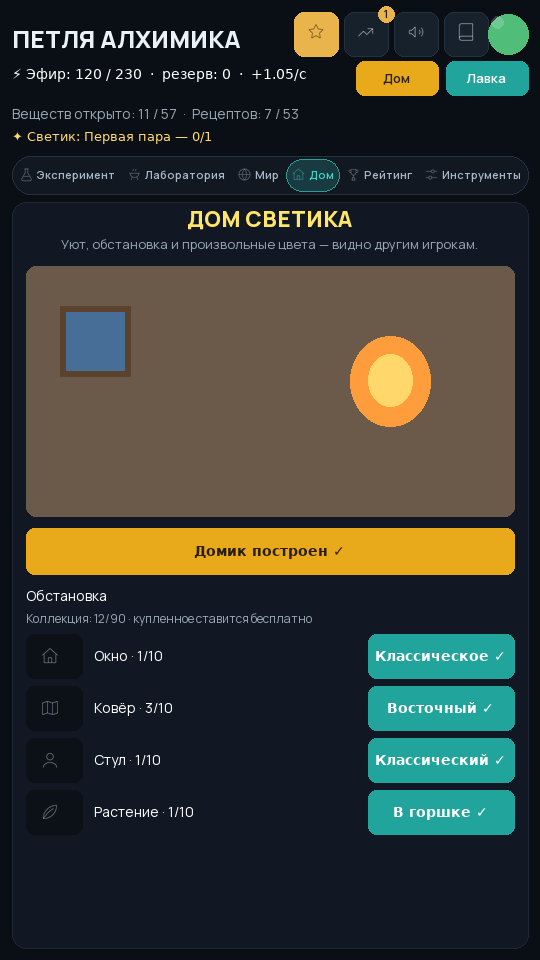
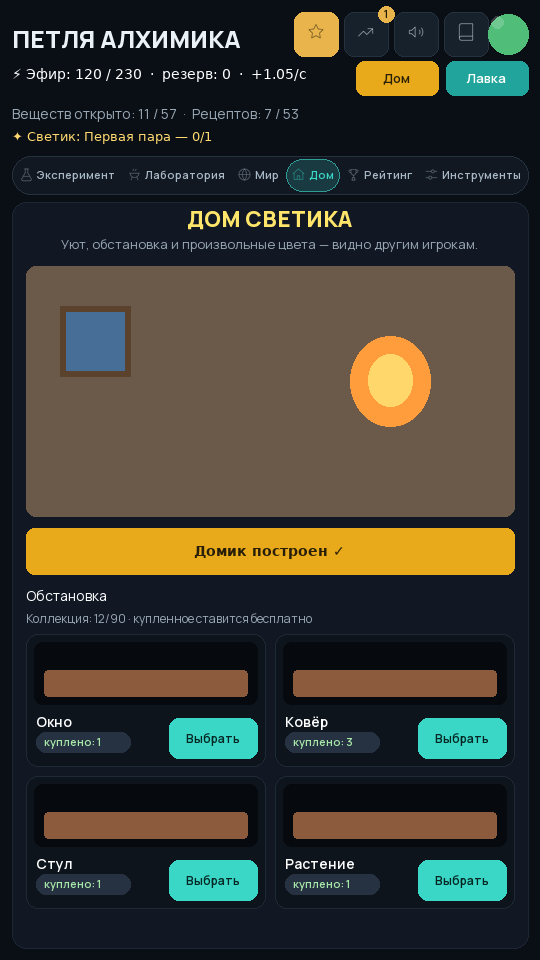
fix(preview): кадр Дома ПОСЛЕ показывал строки ДО — режим каталога привязан к ДО/ПОСЛЕ

diff --git a/alchemists-loop/tools/ui-preview/render_shots.py b/alchemists-loop/tools/ui-preview/render_shots.py
@@ -416,6 +416,7 @@ def screen_experiment(mode):
 
 def screen_house(mode):
     tm, mode = mode, "before"
+    hm = tm  # каталог обстановки меняется по режиму ДО/ПОСЛЕ (блок 4)
     img = new_phone()
     C = AFTER if mode == "after" else BEFORE
     top = header(img, tm)
@@ -443,14 +444,14 @@ def screen_house(mode):
     y += 24
     text(img, (26, y), "Коллекция: 12/90 · купленное ставится бесплатно", size=12, color=C["ink2"])
     y += 24
-    if mode == "before":
+    if hm == "before":
         furn = [("home", "Окно · 1/10", "Классическое"), ("map", "Ковёр · 3/10", "Восточный"),
                 ("user", "Стул · 1/10", "Классический"), ("leaf", "Растение · 1/10", "В горшке")]
         for icn, nm, val in furn:
             rrect(img, [26, y, 82, y + 44], 8, fill=(12, 17, 24))
             icon(img, icn, (40, y + 12, 20, 20), (159, 180, 196))
             text(img, (94, y + 22), nm, size=14, color=C["ink1"], anchor="lm")
-            button(img, [W - 172, y, 146, 44], f"{val} ✓", 1, mode, size=14)
+            button(img, [W - 172, y, 146, 44], f"{val} ✓", 1, hm, size=14)
             y += 52
         return img
     # ПОСЛЕ (блок 4 согласован): карточки 2×N, без ценников, чип «куплено: N»
